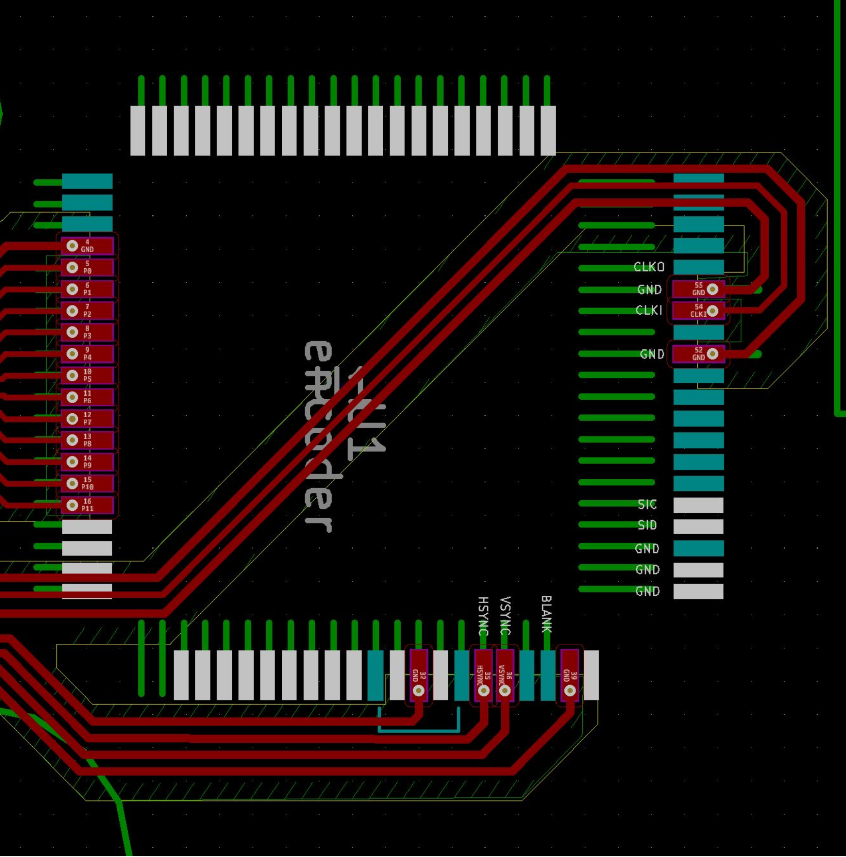
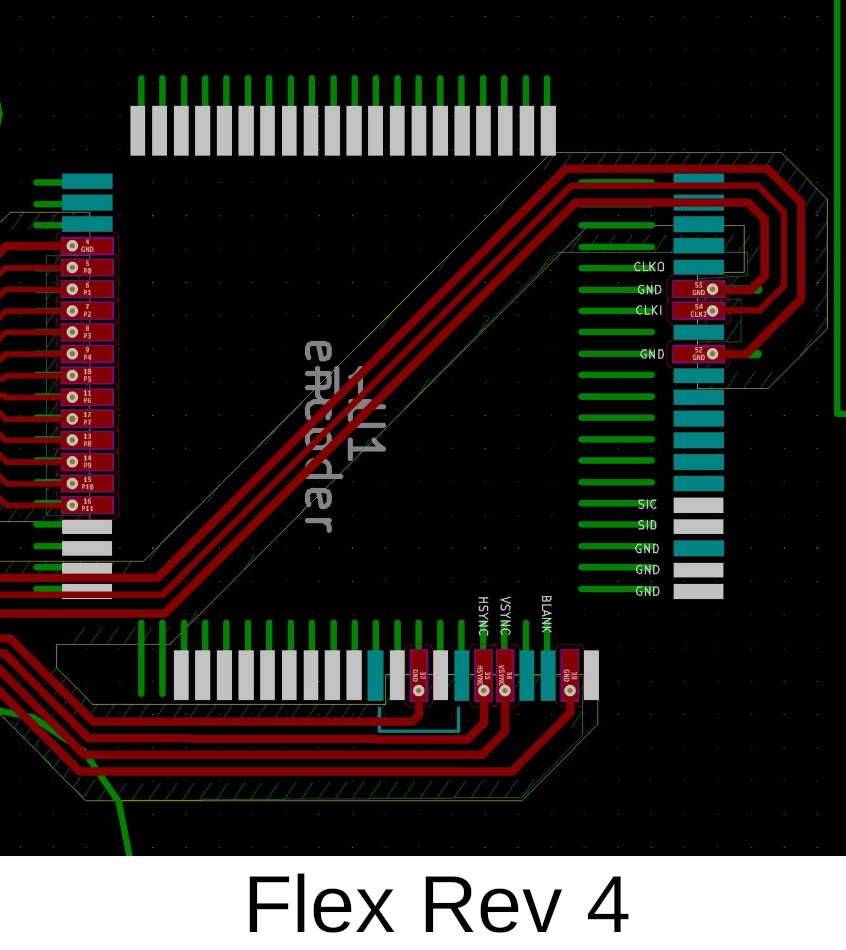
Update flex reference images

diff --git a/manual/Installation Manual (XboxHD+ 1.0 - 1.5).md b/manual/Installation Manual (XboxHD+ 1.0 - 1.5).md
@@ -118,6 +118,9 @@ After the flex is installed, the Xbox should still be bootable.
 #### Important
 **Proper flex positioning and soldering is crucial to allow for good contact. Make sure your flex lies flat on the board, do not solder it on top of the encoder chip pins! Inspect all solder joints before continuing, make sure they are well-formed and do not touch each other.**
 
+#### Warning!
+**There are multiple revisions of the XboxHD+ flex revision. Please pay close attention to the reference images below.**
+
 **Completed Install**
 
 ![Image of Flex Installed](images/Step3-Flex-Installed.png)
@@ -134,9 +137,13 @@ After the flex is installed, the Xbox should still be bootable.
 
 ![Image of Flex Board Layout](images/Step3-Left.png)
 
+Flex rev 1-5 are the same on the left side.
+
 **Bottom Connections**
 
 ![Image of Flex Board Layout](images/Step3-Bottom.png)
+
+Flex rev 1-5 are the same on the bottom side.
 
 ### Step 7 - Aux Wires
 Start with connecting each of the pre-cut wires. The wires for 5V and SPDIF should lay flat across the motherboard running towards the right.

diff --git a/manual/Installation Manual (XboxHDMI 1.0 - 1.5).md b/manual/Installation Manual (XboxHDMI 1.0 - 1.5).md
@@ -128,6 +128,9 @@ After the flex is installed, the Xbox should still be bootable.
 #### Important
 **Proper flex positioning and soldering is crucial to allow for good contact. Make sure your flex lies flat on the board, do not solder it on top of the encoder chip pins! Inspect all solder joints before continuing, make sure they are well-formed and do not touch each other.**
 
+#### Warning!
+**There are multiple revisions of the XboxHD+ flex revision. Please pay close attention to the reference images below.**
+
 **Completed Install**
 
 ![Image of Flex Installed](images/Step3-Flex-Installed.png)
@@ -144,9 +147,13 @@ After the flex is installed, the Xbox should still be bootable.
 
 ![Image of Flex Board Layout](images/Step3-Left.png)
 
+Flex rev 1-5 are the same on the left side.
+
 **Bottom Connections**
 
 ![Image of Flex Board Layout](images/Step3-Bottom.png)
+
+Flex rev 1-5 are the same on the bottom side.
 
 ### Step 7 - Aux Wires
 Start with connecting each of the pre-cut wires. The wires for 5V and SPDIF should lay flat across the motherboard running towards the right.
